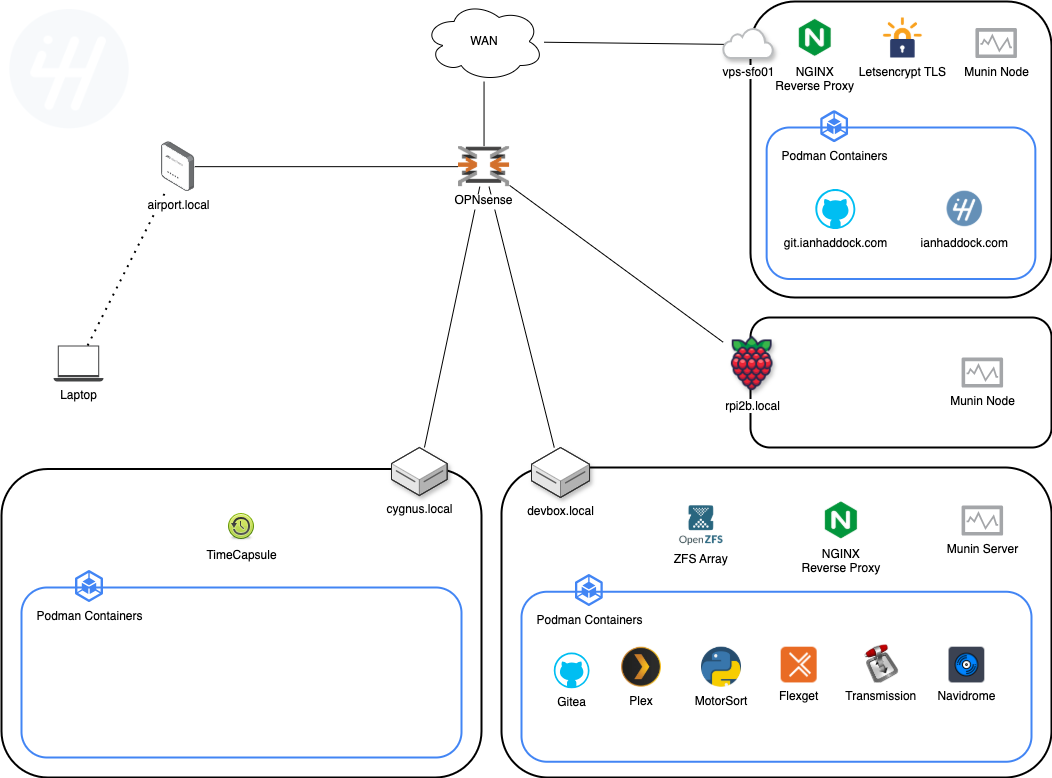
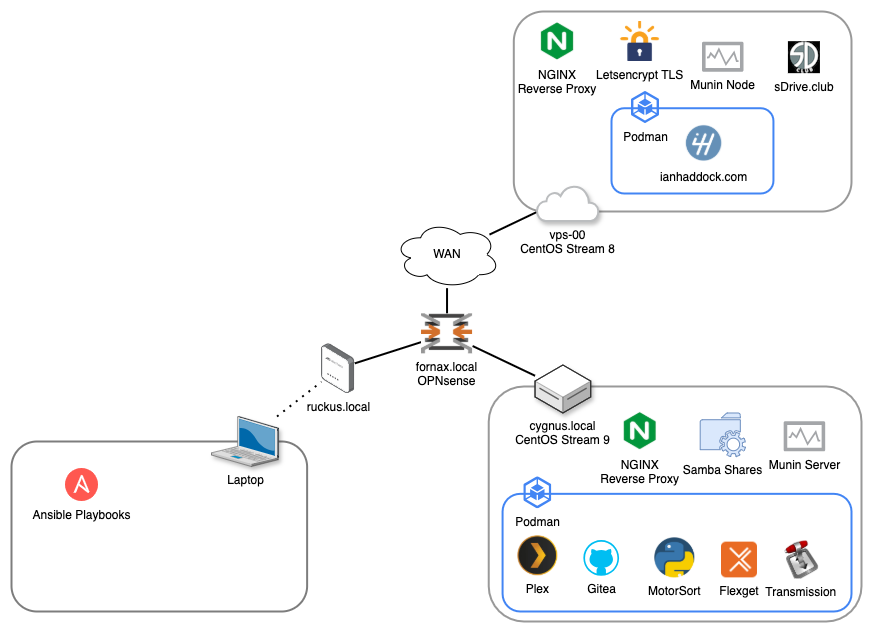
update README

diff --git a/README.md b/README.md
@@ -1,21 +1,13 @@
 [![Ansible Yaml Check](https://github.com/ianhaddock/homelab/actions/workflows/ansible-check.yml/badge.svg)](https://github.com/ianhaddock/homelab/actions/workflows/ansible-check.yml)
 
 # Homelab
-An increasingly vintage yet generally energy efficient array of systems hosting my eclectic mix of entertainment and edu-tainment flavored services and software. Built publicly and with portability in mind, many of these Ansible roles can be plucked out and setup in your environment with minimal changes if you so wish.
+Recently I reduced my homelab environment to the minimums as I refocus on power efficiency, quiet running, and maximized utilization per system. 
 
 <p align="center">
   <img width="80%" height="auto" src="readme.png">
 </p>
 
-## How it's built
-* Vagrant development environments
-* Podman container management
-* KVM virtual machines
-* ZFS block storage
-* mostly CentOS Stream
-* sometimes Raspbian
-
-### Role Descriptions
+### Roles
 * base-nginx: NGINX reverse proxy & letsencrypt TLS certificates
 * blog: my Flask app I built for [my blog][1]
 * gitea: public and private git repos
@@ -33,66 +25,59 @@ An increasingly vintage yet generally energy efficient array of systems hosting 
 * navidrome: music streaming service
 * timecap: Apple timecapsule service for multiple users
 
-### Utilities & Configurations
+### Utility Roles
 * common: installs base packages, enables users, base OS configuration
 * sshd: ssh config and hardening (certs only, no user pw), figlet & random quote MOTDs
 * zram: enables ram compression as swap with a smaller fallback disk swap cache
 * ac_backup: my simple rsync file backup
 * file_store: my simple https file server
 * wakeonwin: bash alias file to wake my PC
-
-### Raspberry Pi specific
 * rpi2b_setup: rpi2b configuration tweaks
 * piglow: support for PiGlow hardware
 
 ## Quick Start
-As this is mostly Ansible based I'm assuming you have Python, Ansible and optionally Vagrant installed. If this is a machine you do other work on, I strongly suggest you [setup a Python virtual environment][112] before you do the following. 
-
-Pull the latest version of the repo.
-
-`$ git pull https://github.com/ianhaddock/homelab.git`
-
-Install the needed Ansible collections.
-
-`$ ansible-galaxy install -r roles/requirements.yml`
-
-Edit the Vagrantfile if you want to use a different IP space, or are using a different VM host. 
-
-Copy the reference example `group_vars/all.yml` file into a new host_vars directory and name the file as the target system's IPv4 IP (xxx.xxx.xxx.xxx.yml).
-
+As this Ansible so have Python, Ansible and Vagrant installed.
 ```
+# Pull the latest version of the repo.
+$ git pull https://github.com/ianhaddock/homelab.git
+
+# Install the needed Ansible collections.
+$ ansible-galaxy install -r roles/requirements.yml
+
+# Edit Vagrantfile for IP and/or VM provider. 
+$ vi Vagrantfile 
+
+# Copy the example to new a host_vars directory
 $ mkdir host_vars
 $ cp group_vars/all.yml host_vars/[target.systems.ip.address].yml
-```
 
-Edit the values in the new host_vars/target.systems.ip.address.yml file to fit your Vagrantfile configuration.
+# Edit the new host_vars file to fit your Vagrantfile config
+# Generate a ssh key-pair for the ansible account.
+$ ssh-keygen -f ~/.ssh/ansible
 
-As ssh password login is disabled in the sshd setup, generate a ssh key-pair for the ansible account.
-
-`$ ssh-keygen -f ~/.ssh/ansible`
-
-Add the Ansible public key to the common role files directory which it will install for you on the first run
-
-```
+# Add Ansible public key to the common role files directory
 $ mkdir -p roles/common/files/public_key
 $ cp ~/.ssh/ansible.pub roles/common/files/public_keys/
+
+# Start vagrant VM using --provision
+$ vagrant up --provision
+
+# Edit as you like, select roles and fire away:
+$ ansible-playbook --private-key ~/.ssh/ansible -u ansible -i development playbook.yml
 ```
-
-Start the vagrant VM. Using `--provision` will run the `initial-setup.yaml` file and get things started.
-
-`$ vagrant up --provision`
-
-Edit a main playbook as you like, select the role(s) you are interested in running and fire away:
-
-`$ ansible-playbook --private-key ~/.ssh/ansible -u ansible -i development your-new-playbook.yml`
- 
 
 ## Contributing
 I'm always interested in learning from and helping the community. If you have questions or know of a better way to do some of the things done here feel free to drop a pull request.
 
+## Donations
+If you found this useful and would like to support projects like this you can buy me a coffee:
 
+<p align="center">
+<a href="https://www.buymeacoffee.com/ianhaddock" target="_blank"><img src="https://www.buymeacoffee.com/assets/img/custom_images/orange_img.png" alt="Buy Me A Coffee" style="height: 41px; width: 174px;" ></a>
+</p>
 
 [1]: https://ianhaddock.com
 [2]: https://developers.redhat.com/articles/faqs-no-cost-red-hat-enterprise-linux
 [111]: https://github.com/ianhaddock/motorsort
 [112]: https://docs.python.org/3/library/venv.html
+
